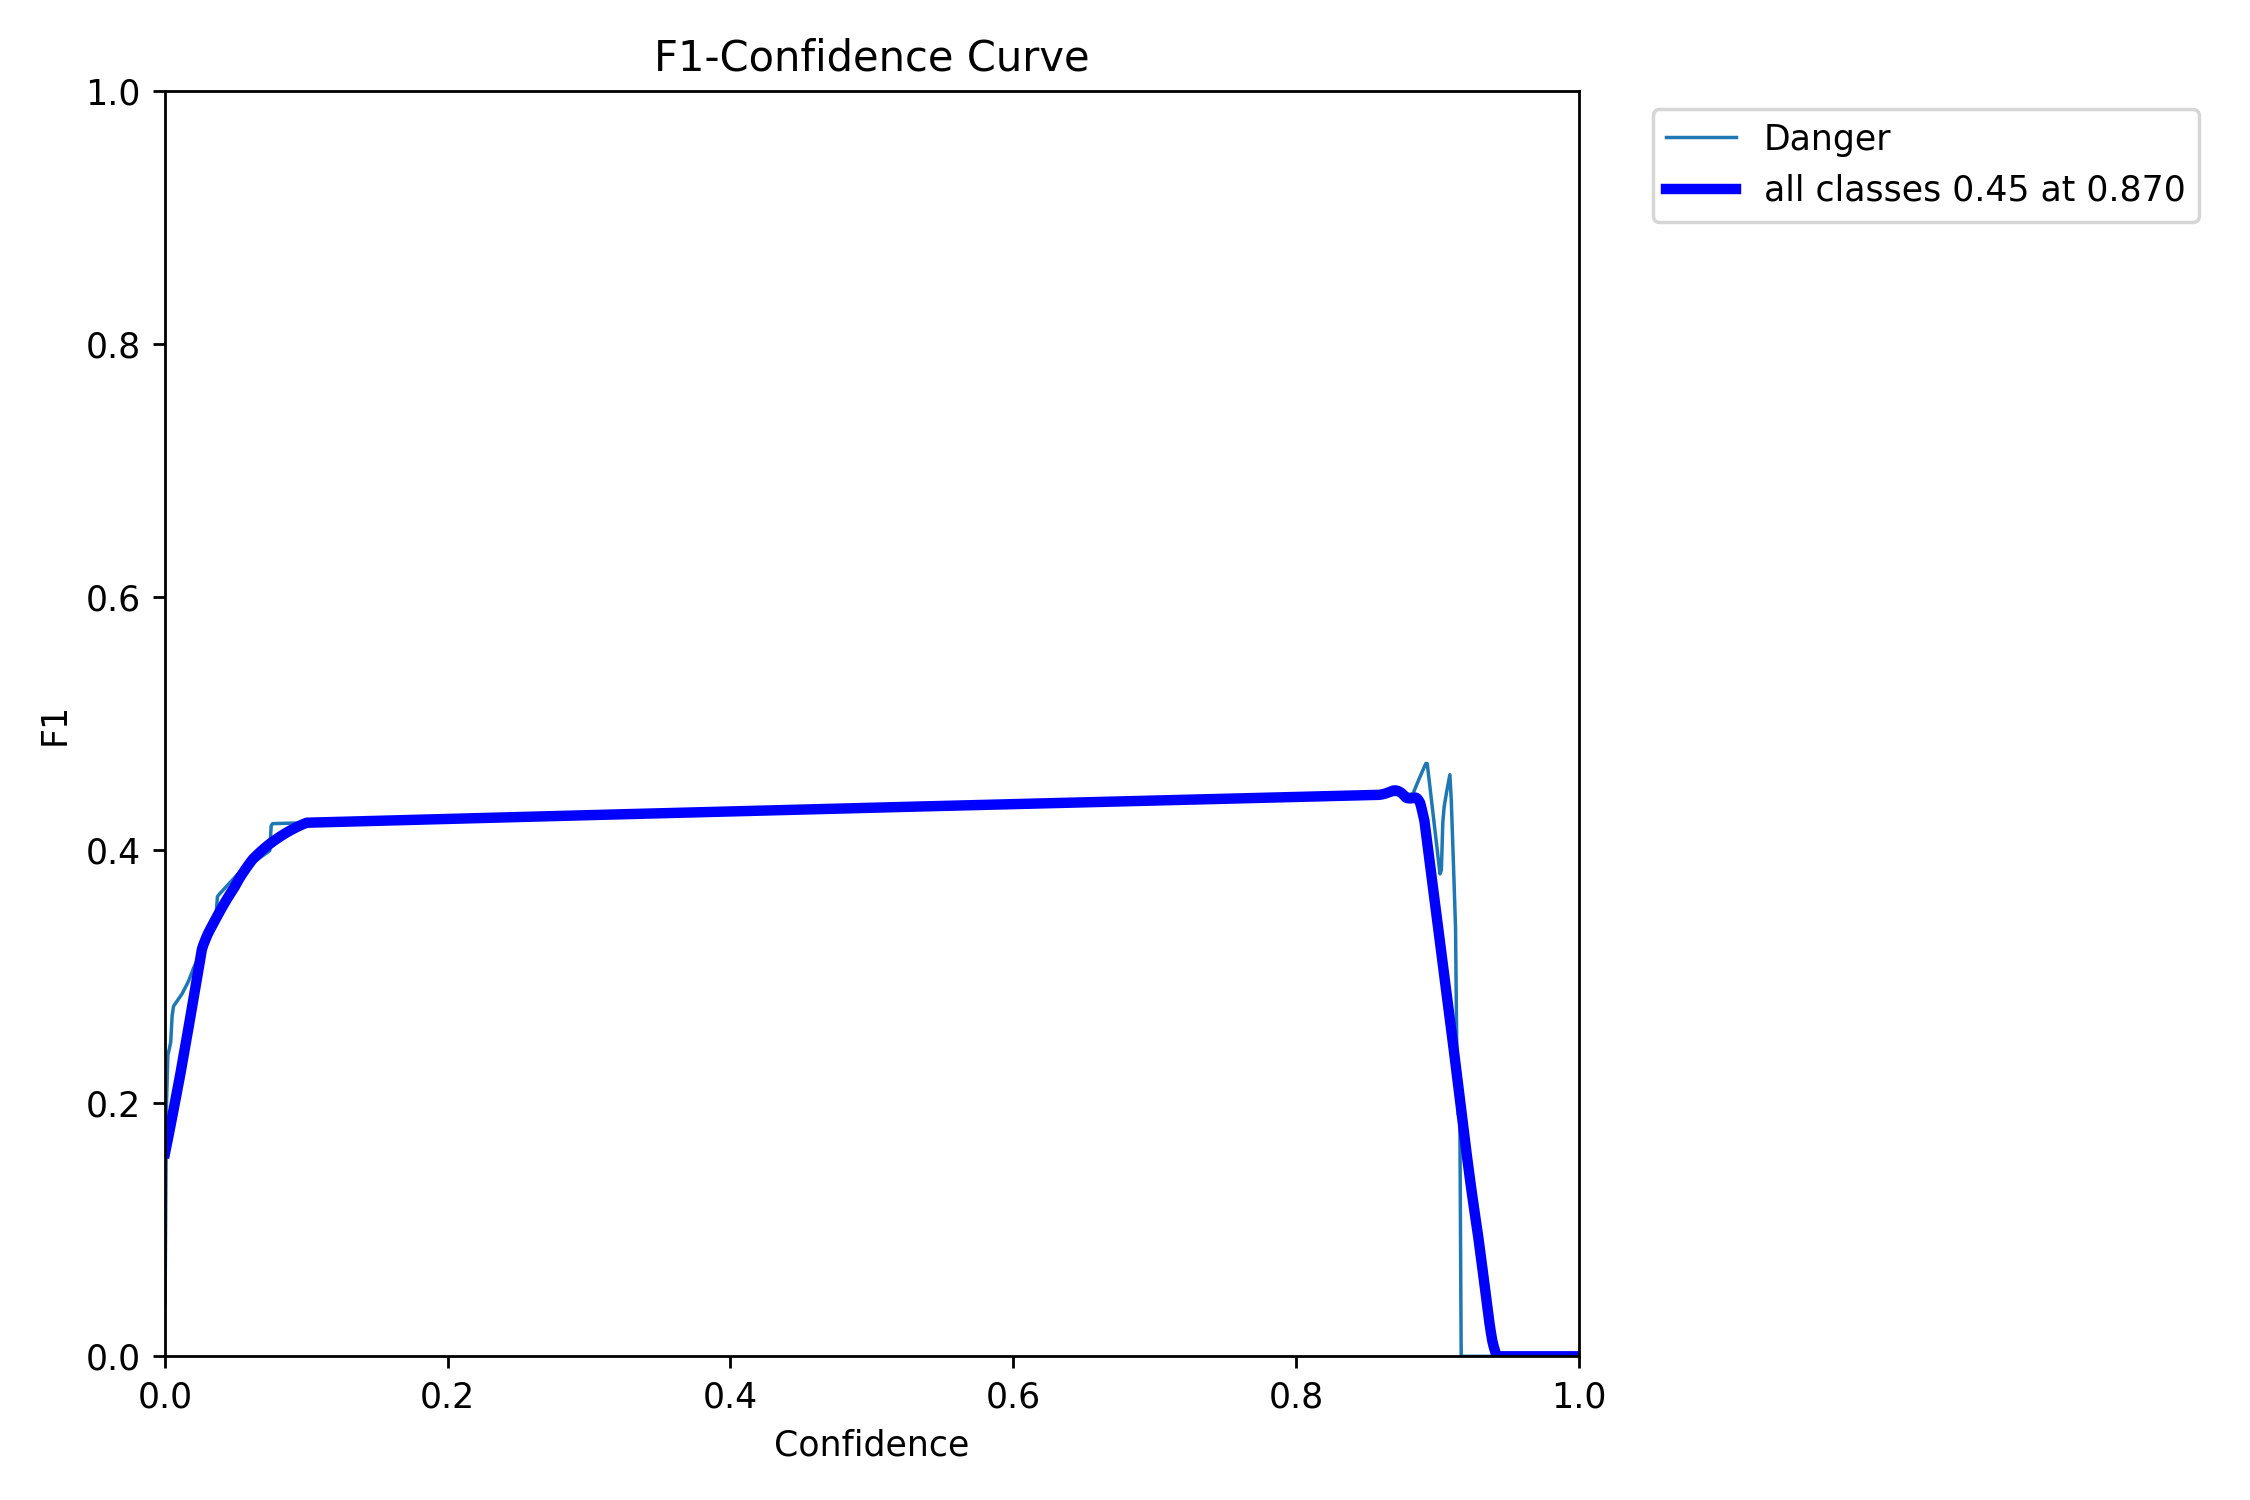
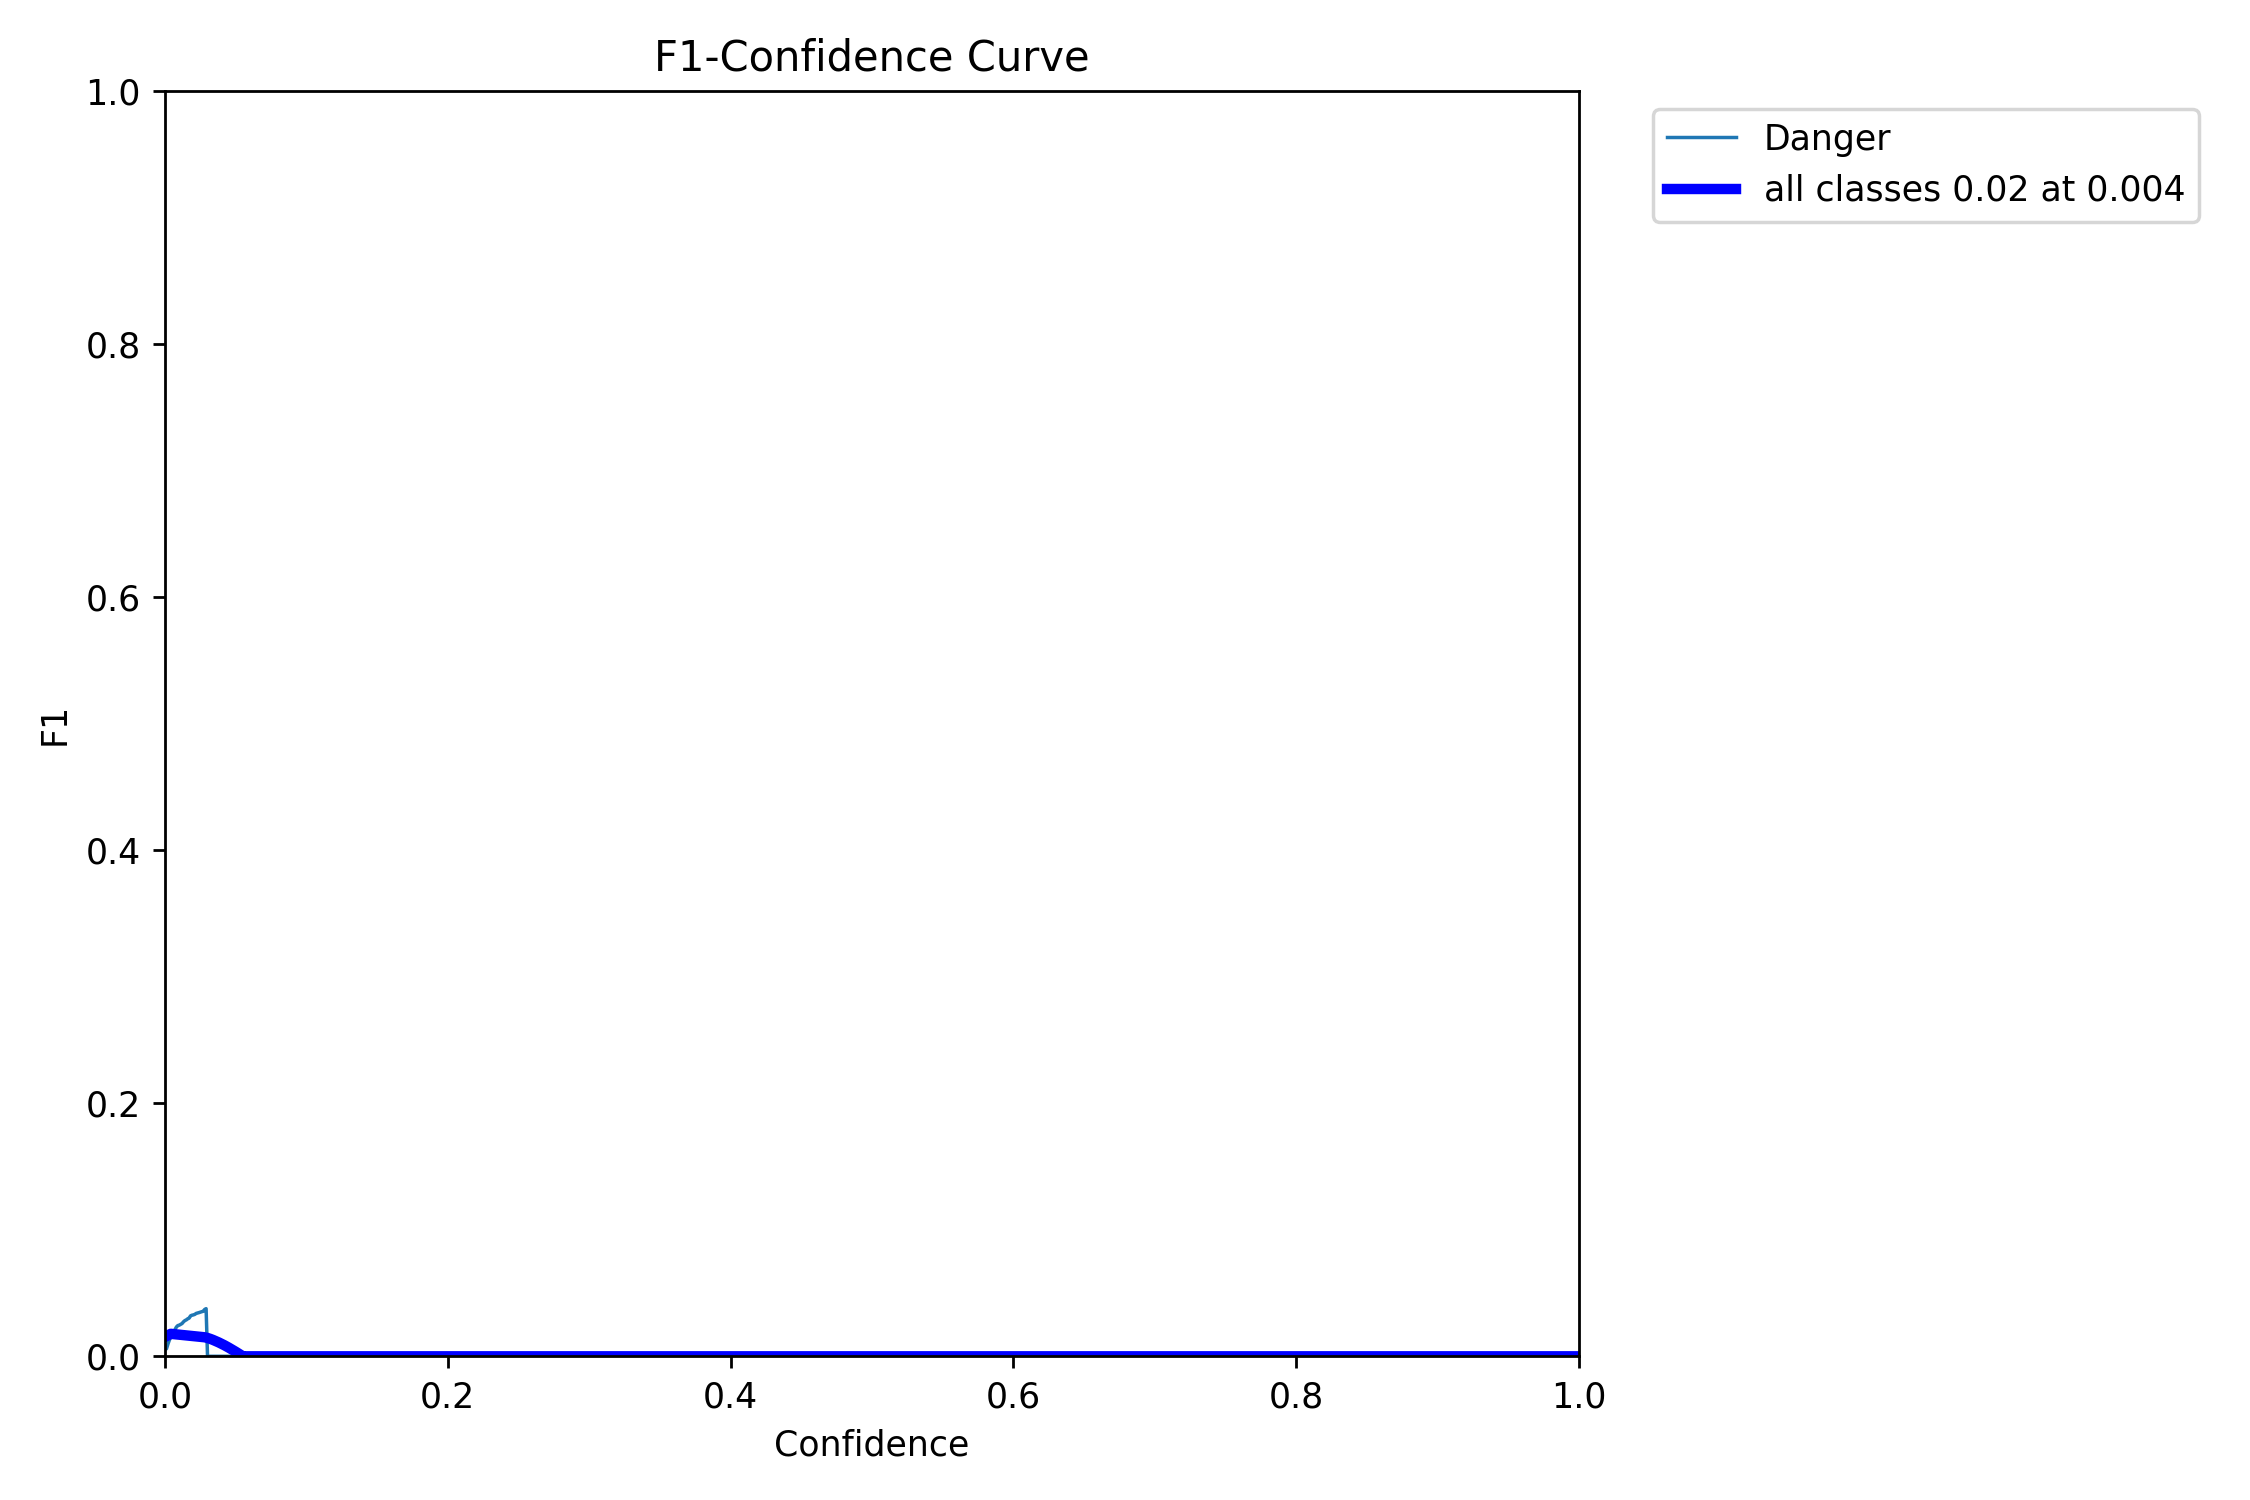
adapt yolov7

diff --git a/val_with_result.py b/val_with_result.py
@@ -43,9 +43,9 @@ stats = []
 iouv = np.linspace(0.5, 0.95, 10)  # iou vector for mAP@0.5:0.95
 niou = iouv.size
 
-m = TorchModel()
-images = sorted(glob('sample/images/*'))
-labels = sorted(glob('sample/labels/*'))
+m = TorchModel('models/torch/640/s.cpu.v7.torchscript')
+images = sorted(glob('sample/images/*'))[:10]
+labels = sorted(glob('sample/labels/*'))[:10]
 y = []
 for label in labels:
     with open(label, 'r') as f:
@@ -61,6 +61,7 @@ x = [(get_image_tensor(cv2.imread(img), 640),img) for img in images]
 for idx, (((im, shapes, im0, cratio), paths), (label)) in enumerate(zip(x, y)):
     label_origin = label.copy()
     out = m.forward(torch.from_numpy(im).unsqueeze(0).float())
+    print(out.shape)
     out = non_max_suppression(prediction=out, conf_thres=0.0001, iou_thres=0.6, labels=[], agnostic=True)
     _, height, width = im.shape
     im0 = cv2.imread(paths)

diff --git a/models/torch_model.py b/models/torch_model.py
@@ -10,9 +10,11 @@ class Model:
     def __init__(self, model_path: str = 'models/torch/640/s.cpu.torchscript') -> None:
         self.model_path = model_path
         self.model = torch.jit.load(model_path)
+        self.is7 = 'v7' in model_path
 
     def forward(self, x):
         ''' forward '''
         res = self.model(x)
+        if self.is7: return res[0].detach().numpy()
         return res[0].numpy()
 

diff --git a/test.py b/test.py
@@ -1,0 +1,11 @@
+import cv2
+from util import load_image, letterbox
+
+img = cv2.imread('img.png')
+
+img_size = 640
+
+img, (h0, w0), (h, w) = load_image(img, img_size)
+img, ratio, pad, cratio = letterbox(img, (img_size, img_size), auto=False, scaleup=False)
+
+cv2.imwrite('img1.png', img)
